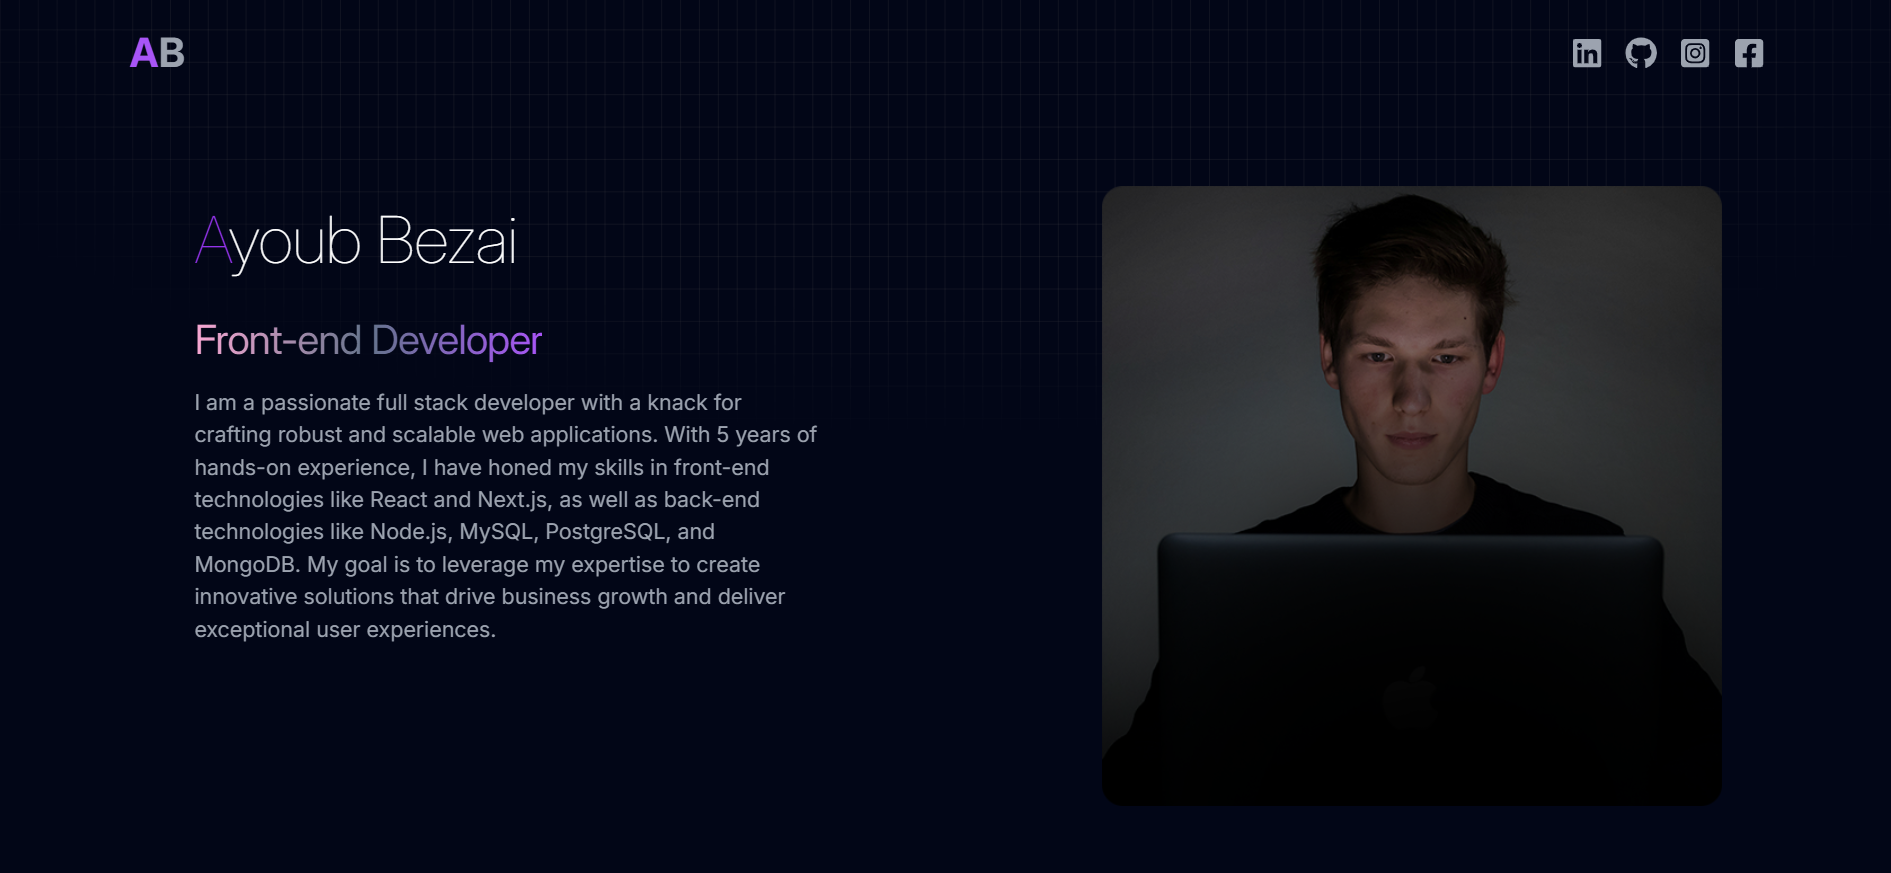
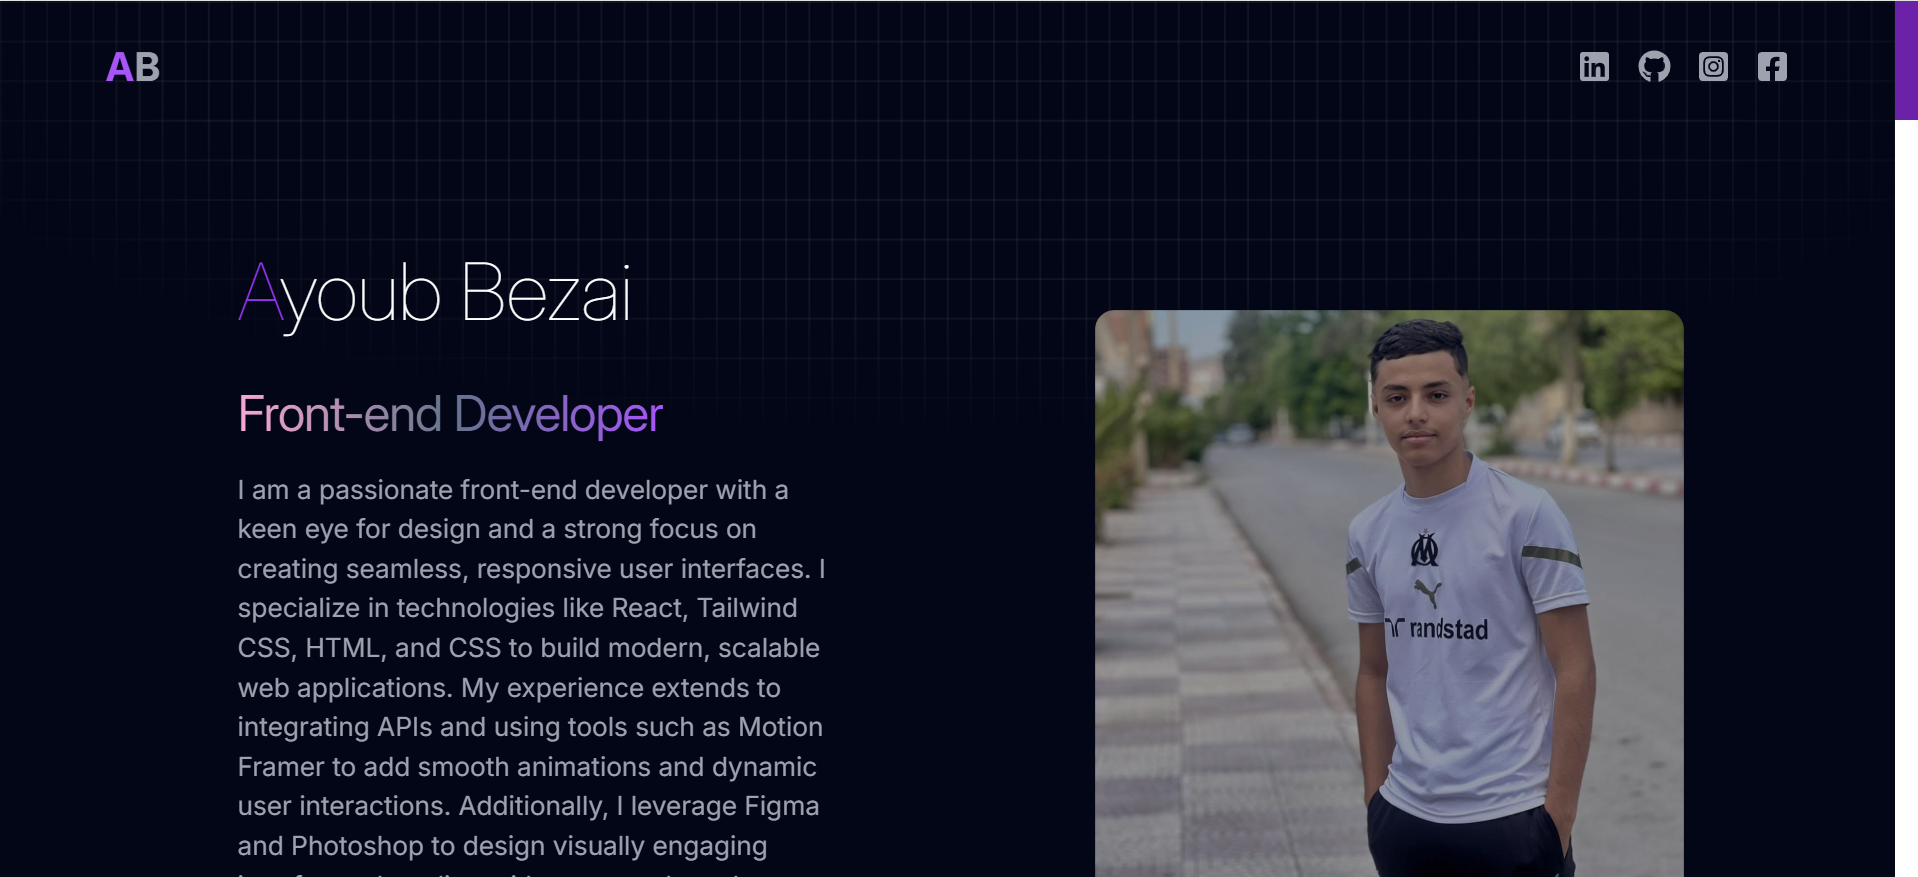
my pic

diff --git a/src/components/Hero.tsx b/src/components/Hero.tsx
@@ -1,5 +1,5 @@
 import {  HERO_CONTENT } from "../constants";
-import image1 from "../assets/kevinRushProfile.png"
+import image1 from "../assets/me1.png"
 import { motion } from "motion/react"
 
 const ContainerL = (delay:number ) =>({
@@ -38,7 +38,7 @@ const Hero: React.FC = () => {
       whileInView={{x:0 ,opacity:1}}
                  initial={{x:100 ,opacity:0}}
                  transition ={{duration :1 }}
-      src={image1} alt="Hero" className="  w-[80%] self-center md:w-[40%] z-50  md:mr-12" />
+      src={image1} alt="Hero" className="  rounded-xl  w-[80%] self-center md:w-[40%] z-50  md:mr-12" />
     </motion.div>
   );
 };
